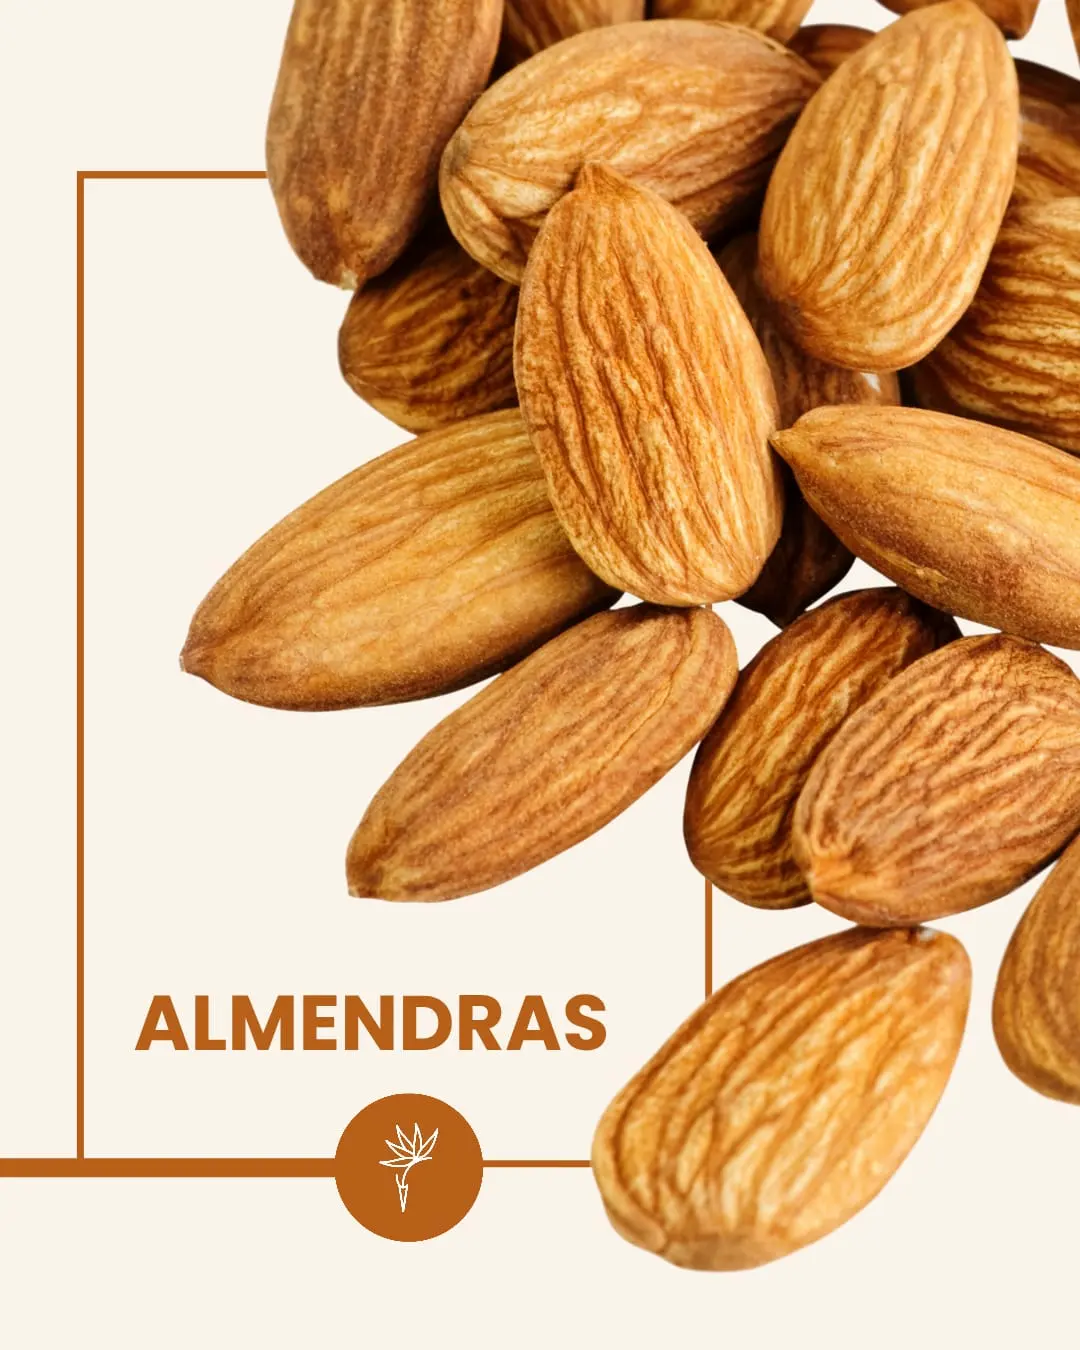
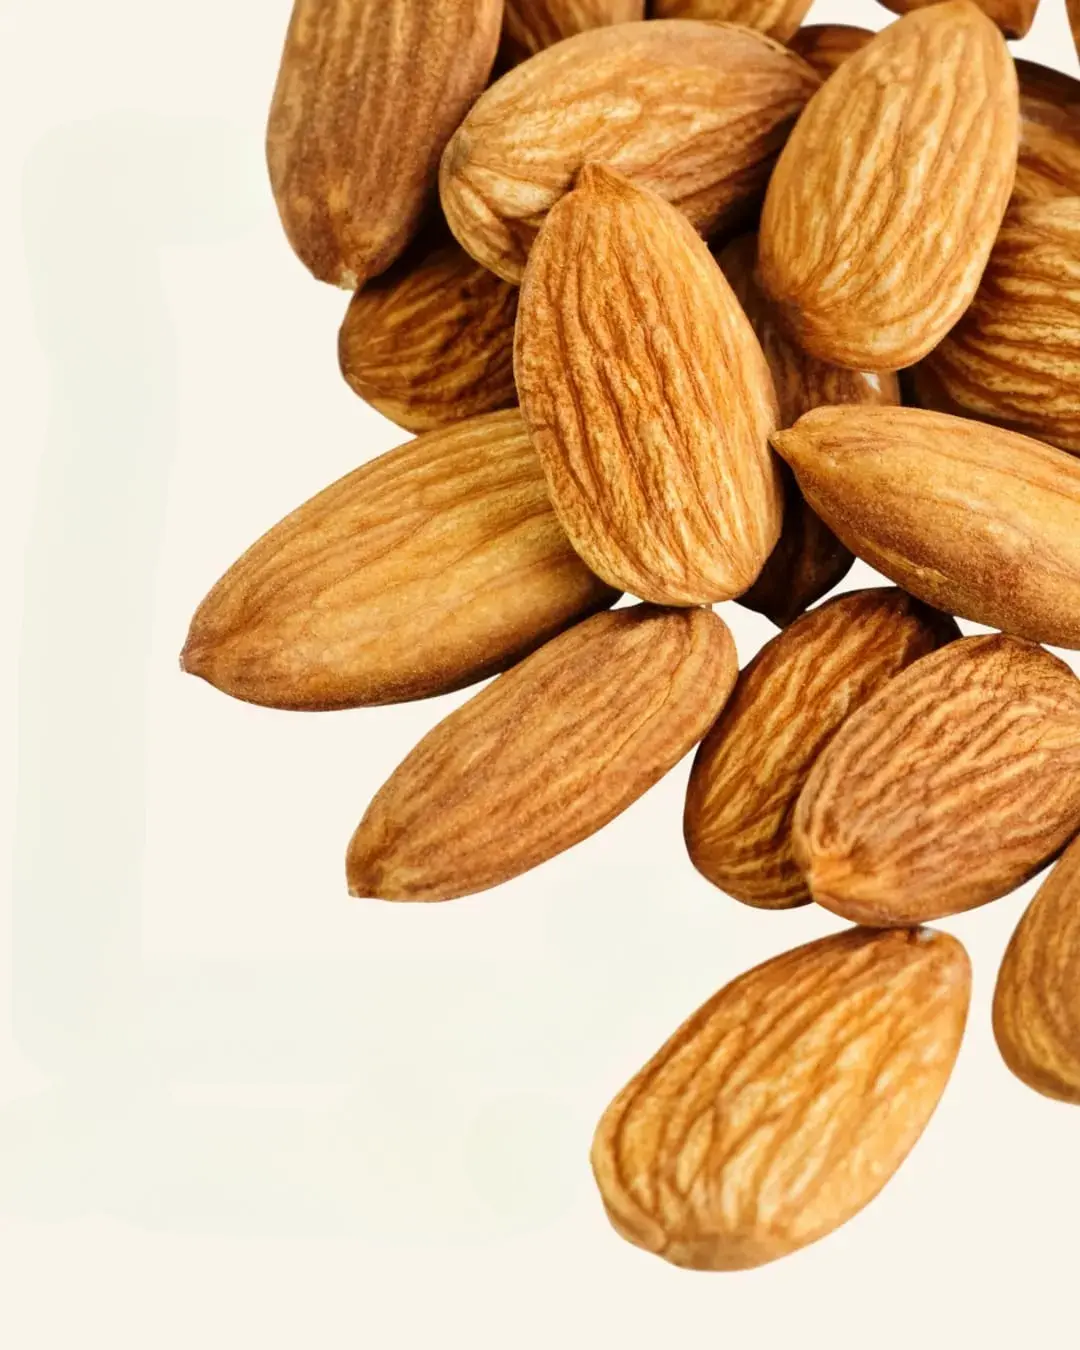
Home Page y retoques en las fotos y navbar

Changed region(s): [[0.0, 0.1244, 0.55, 0.9333], [0.1222, 0.7156, 0.5806, 0.7778], [0.6417, 0.6533, 0.6722, 0.7467]]

diff --git a/client/src/pages/Home.tsx b/client/src/pages/Home.tsx
@@ -1,13 +1,54 @@
 import Footer from "../components/navigation/Footer"
 import NavBar from "../components/navigation/NavBar"
 import {features} from '../constants/features.ts'
+import banner from '../assets/imgs/banner.webp'
+import { Link } from "react-router"
+import EastIcon from '@mui/icons-material/East';
 
 const Home = () => {
   return (
     <>
-        <NavBar />
+        <NavBar />     
 
-        <section className="border-y border-border py-12">
+        <section className="relative h-screen min-h-dvh overflow-hidden">
+          <div className="absolute inset-0 w-full h-full">
+            <img 
+              src={banner} 
+              alt="Banner Frutos Mamamia" 
+              className="w-full h-full object-cover object-center"
+            />
+            <div className="absolute inset-0 bg-black/60"></div>
+          </div>
+          
+          <div className="relative z-10 h-full flex items-center justify-center">
+            <div className="text-center text-white max-w-4xl px-4">
+              <h1 className="text-5xl md:text-6xl font-bold mb-6">
+                Snacks que impulsan
+              </h1>
+              <p className="text-xl md:text-2xl mb-8 leading-relaxed">
+                Descubre nuestra selección premium de frutos secos, frutas deshidratadas y más. Calidad excepcional directo a tu hogar.
+              </p>
+
+              <div className="flex flex-col sm:flex-row gap-4 justify-center">
+                <Link
+                  to="/"
+                  className="px-8 py-4 bg-primary text-white font-semibold rounded-lg hover:bg-primary-400 transition-colors text-lg"
+                >
+                  Ver Productos
+                  <EastIcon className="ml-2 w-5 h-5 inline-block" />
+                </Link>
+                <Link
+                  to="/contacto"
+                  className="px-8 py-4 bg-transparent text-white font-semibold rounded-lg border-2 border-white hover:bg-white hover:text-primary transition-colors text-lg"
+                >
+                  Contactanos
+                </Link>
+              </div>
+            </div>
+          </div>
+        </section>
+
+        <section className="py-12">
           <div className="container mx-auto px-4">
             <div className="grid gap-8 md:grid-cols-3">
               {features.map((feature) => (
@@ -18,13 +59,13 @@ const Home = () => {
                     </div>
                   </div>
                   <h3 className="text-xl mb-2 font-semibold text-primary">{feature.title}</h3>
-                  <p className="text-md text-dark-500/80 leading-relaxed">{feature.description}</p>
+                  <p className="text-md text-dark-500/800 leading-relaxed">{feature.description}</p>
                 </div>
               ))}
             </div>
           </div>
         </section>
-        
+
         <Footer />
     </>
   )

diff --git a/client/src/components/navigation/NavBar.tsx b/client/src/components/navigation/NavBar.tsx
@@ -3,7 +3,7 @@ import { NavLink, Link } from 'react-router';
 
 const NavBar = () => {
   return (
-    <nav className="sticky top-0 z-50 w-full border-b-2 border-dark-300 bg-background/95 backdrop-blur supports-backdrop-filter:bg-background/60">
+    <nav className="sticky top-0 z-50 w-full border-b-2 border-dark-300 bg-white">
       <div className="container mx-auto px-4">
         <div className="flex h-20 items-center justify-between">
           <Link to="/" className="flex items-center gap-2">

diff --git a/client/src/styles/global.css b/client/src/styles/global.css
@@ -1,7 +1,7 @@
 @import "tailwindcss";
 
 @theme {
-  --color-background: ##fdf9f7
+  --color-background: #fdf9f7
 
   --color-primary-50: #FEF7F0;
   --color-primary-100: #FDEEE0;
